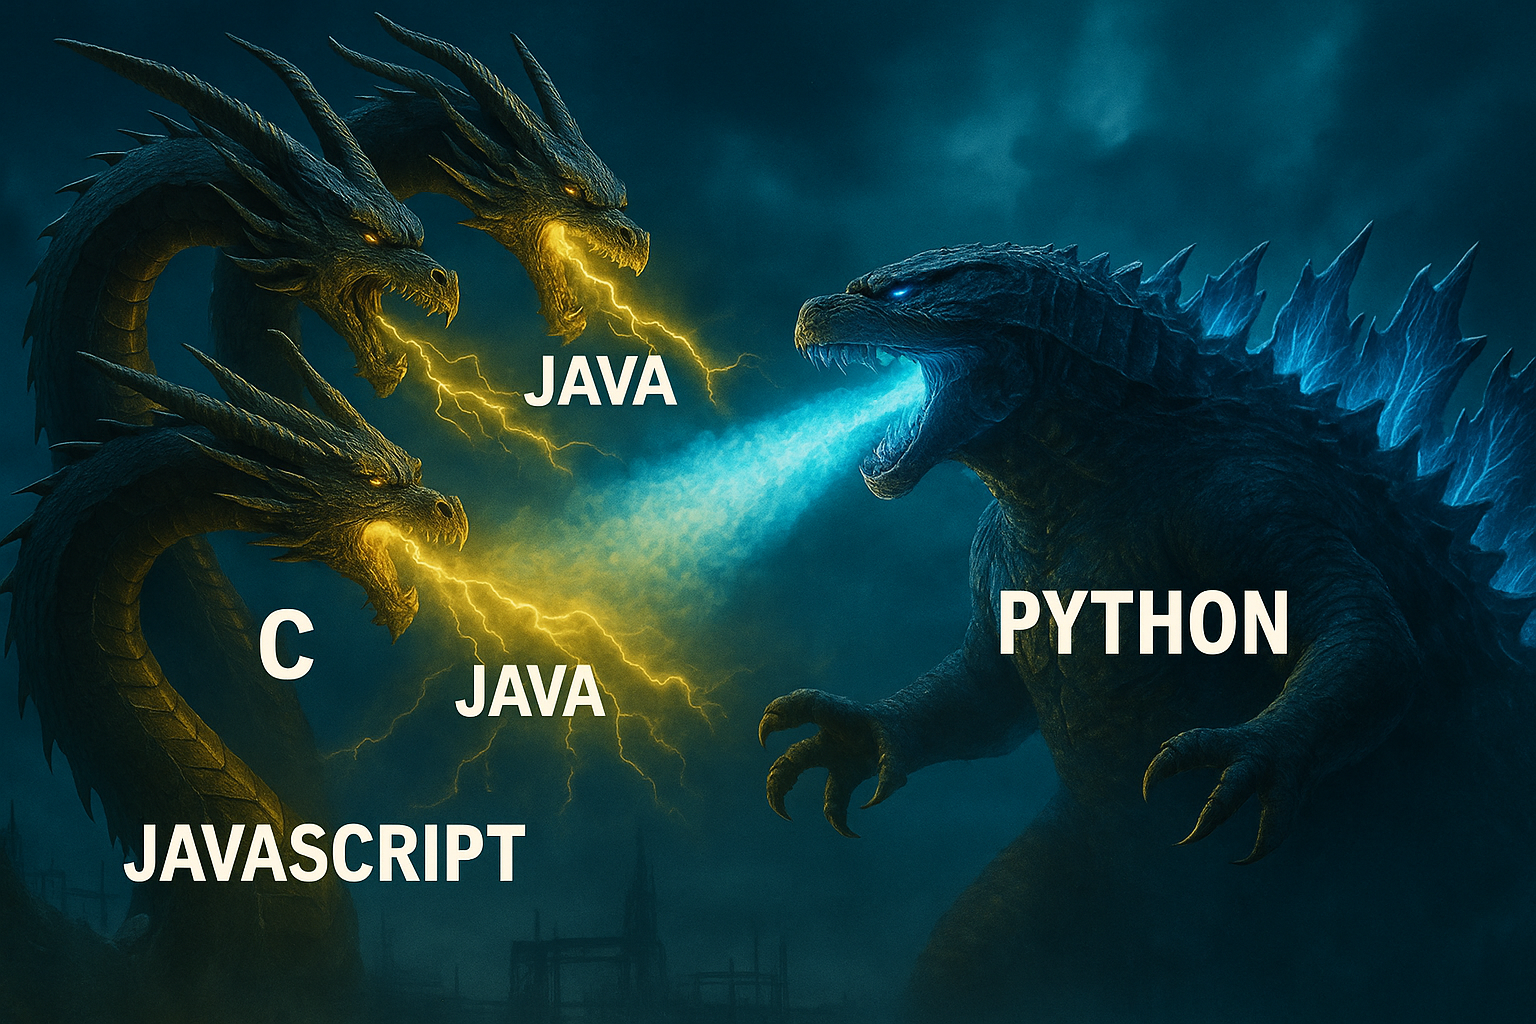
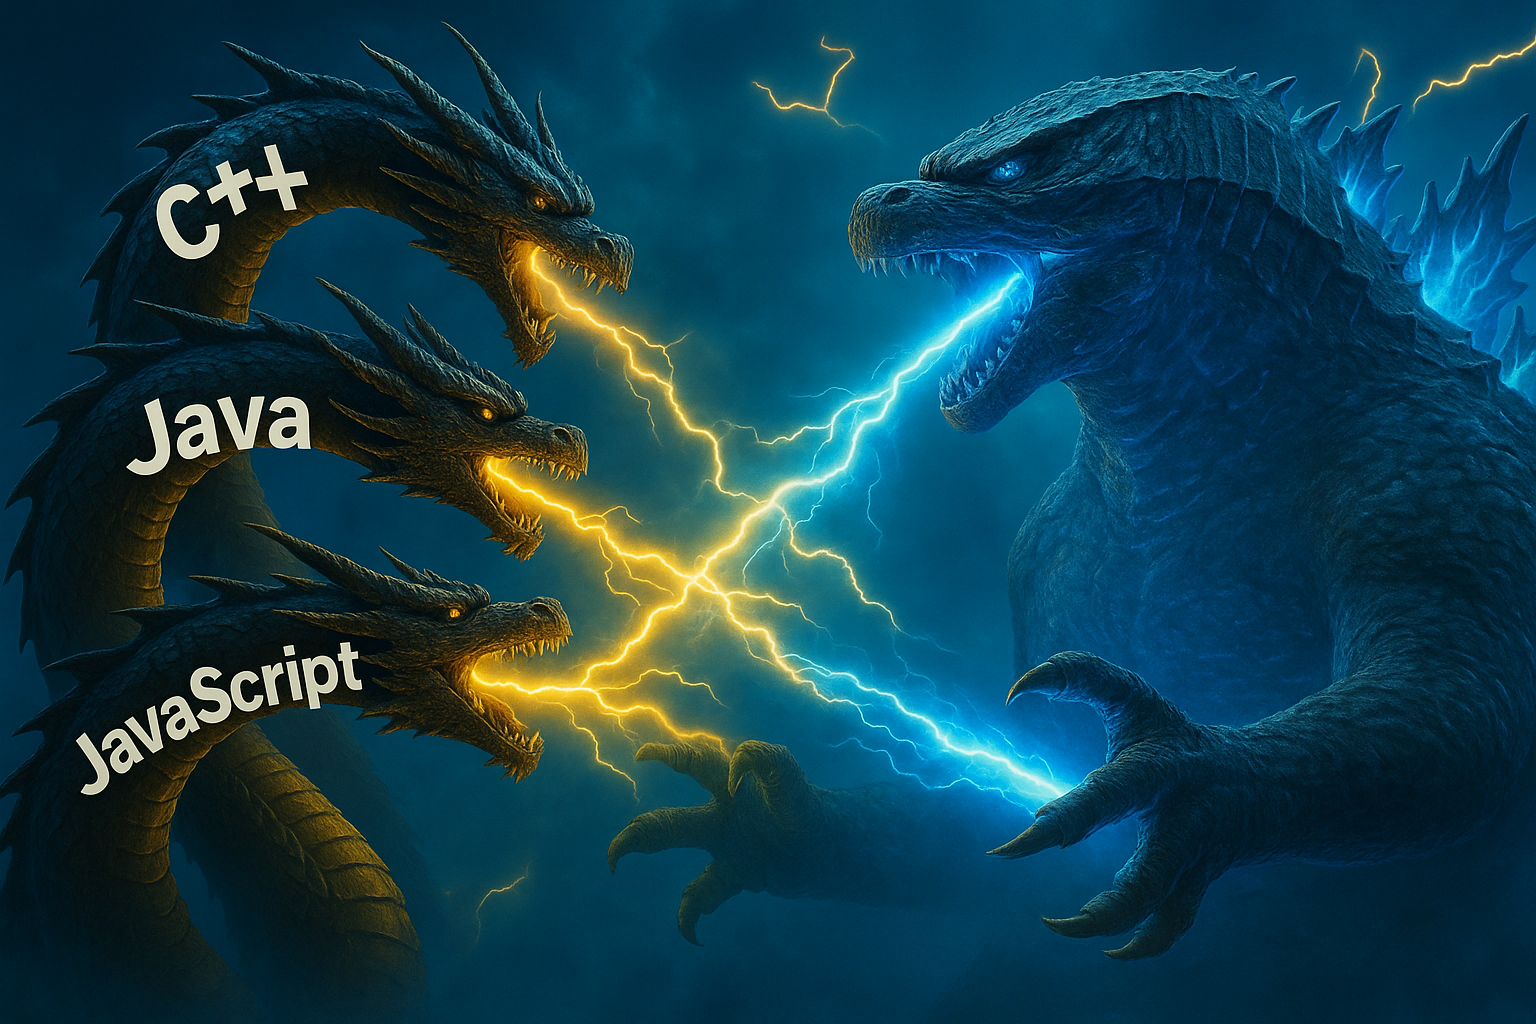
add new image

diff --git a/index.html b/index.html
@@ -1409,7 +1409,7 @@
            target="_blank" 
            class="blog-entry justify-content-end shadow-lg" 
            style="background: rgba(0, 0, 0, 0.75); border-radius: 15px; text-decoration: none;">
-          <div class="block-20 zoom-effect" style="background-image: url('images/Monsterverse1.png'); height: 240px; background-size: cover; background-position: center;"></div>
+          <div class="block-20 zoom-effect" style="background-image: url('images/Monsterverse.png'); height: 240px; background-size: cover; background-position: center;"></div>
           <div class="text mt-2 d-block px-3 pb-3">
             <h3 class="heading text-warning">Ghidorah vs Godzilla: Titans of the Programming Monsterverse</h3>
             <p class="text-light" style="font-size: 14px;">A grand war of ancient power and modern speed — welcome to the Programming Monsterverse!🌀<br>
